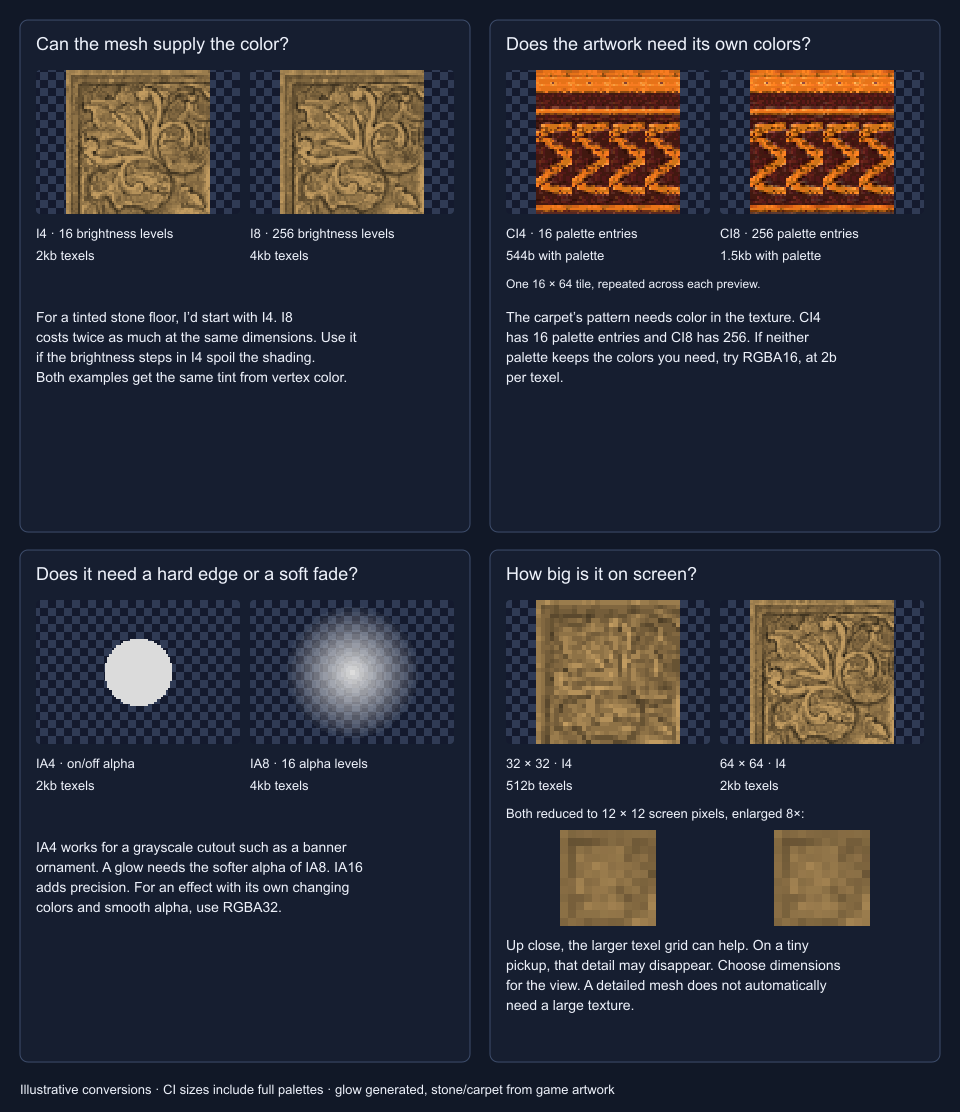
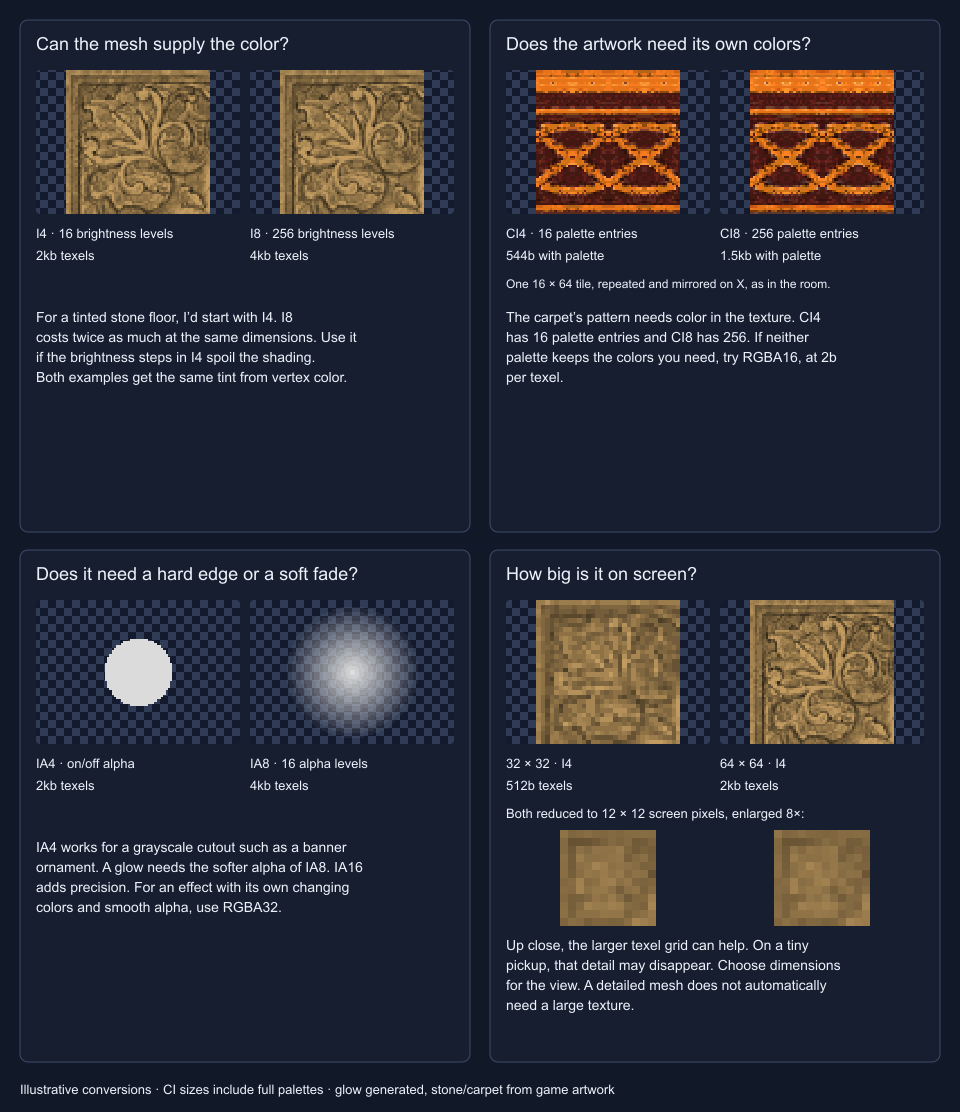
Mirror carpet border previews on X to match the room

Changed region(s): [[0.8125, 0.0612, 0.9375, 0.1835], [0.5938, 0.0612, 0.7188, 0.1835], [0.6875, 0.2446, 0.8438, 0.2752]]

diff --git a/content/blog/n64-texture-formats/slides/Presentation.tsx b/content/blog/n64-texture-formats/slides/Presentation.tsx
@@ -76,7 +76,7 @@ function ChoiceSlide({ index }: { index: number }) {
         <figcaption><strong>{sample.label}</strong><span>{formatBytes(cost.texels + cost.paletteBytes)}{cost.paletteBytes ? ' with palette' : ' of texels'}</span></figcaption>
       </figure>;
     })}</div>
-    {choice.id === 'color' && <p className={s.repeatNote}>One 16 × 64 tile, repeated across each preview.</p>}
+    {choice.id === 'color' && <p className={s.repeatNote}>One 16 × 64 tile, repeated and mirrored on X, as in the room.</p>}
     {choice.id === 'resolution' && <div className={s.screenSize}>
       <span>Both at 12 × 12 screen pixels:</span>
       {choice.samples.map((sample) => <figure key={sample.file}>
@@ -201,7 +201,7 @@ const slides: Slide[] = [
     id: `choice-${choice.id}`, title: choice.title, layout: 'demo',
     notes: [
       'I’d start with what the surface needs. Each pair uses the same source, so you can see what changes when you spend more memory.\n\nFor a tinted stone floor, I’d start with I4. I8 costs twice as much at the same dimensions, so only use it if the I4 brightness steps spoil the shading.',
-      'The carpet’s pattern needs color in the texture itself. CI4 has 16 palette entries and CI8 has 256.\n\nIf neither palette keeps the colors you need, try RGBA16, at 2 bytes per texel.',
+      'The carpet’s pattern needs color in the texture itself. CI4 has 16 palette entries and CI8 has 256.\n\nIf neither palette keeps the colors you need, try RGBA16, at 2 bytes per texel.\n\nThe previews tile the 16 × 64 border the way the room does: repeated and mirrored on X, which is where the diamond pattern comes from.',
       'IA4 works for a grayscale cutout, like a banner ornament. A glow needs the softer alpha of IA8, and IA16 adds more precision.\n\nFor an effect with its own changing colors and smooth alpha, use RGBA32.',
       'Up close, a larger texel grid can help. On a tiny pickup, that detail disappears.\n\nAt 12 × 12 screen pixels, the 32 × 32 and 64 × 64 versions look almost the same, but one costs four times as much. A detailed mesh doesn’t automatically need a large texture.',
     ][index],

diff --git a/content/blog/n64-texture-formats/FormatChoiceGuide.tsx b/content/blog/n64-texture-formats/FormatChoiceGuide.tsx
@@ -16,7 +16,7 @@ export default function FormatChoiceGuide() {
           <span>{formatBytes(cost.texels + cost.paletteBytes)}{cost.paletteBytes ? ' with palette' : ' texels'}</span>
         </div>;
       })}</div>
-      {choice.id === 'color' && <div className={styles.repeatNote}>One 16 × 64 tile, repeated across each preview.</div>}
+      {choice.id === 'color' && <div className={styles.repeatNote}>One 16 × 64 tile, repeated and mirrored on X, as in the room.</div>}
       {choice.id === 'resolution' && <div className={styles.smallView}>
         <span>Both reduced to 12 × 12 screen pixels, enlarged 8×:</span>
         <div className={styles.screenSamples}>{choice.samples.map((sample) => <div key={sample.file}>
